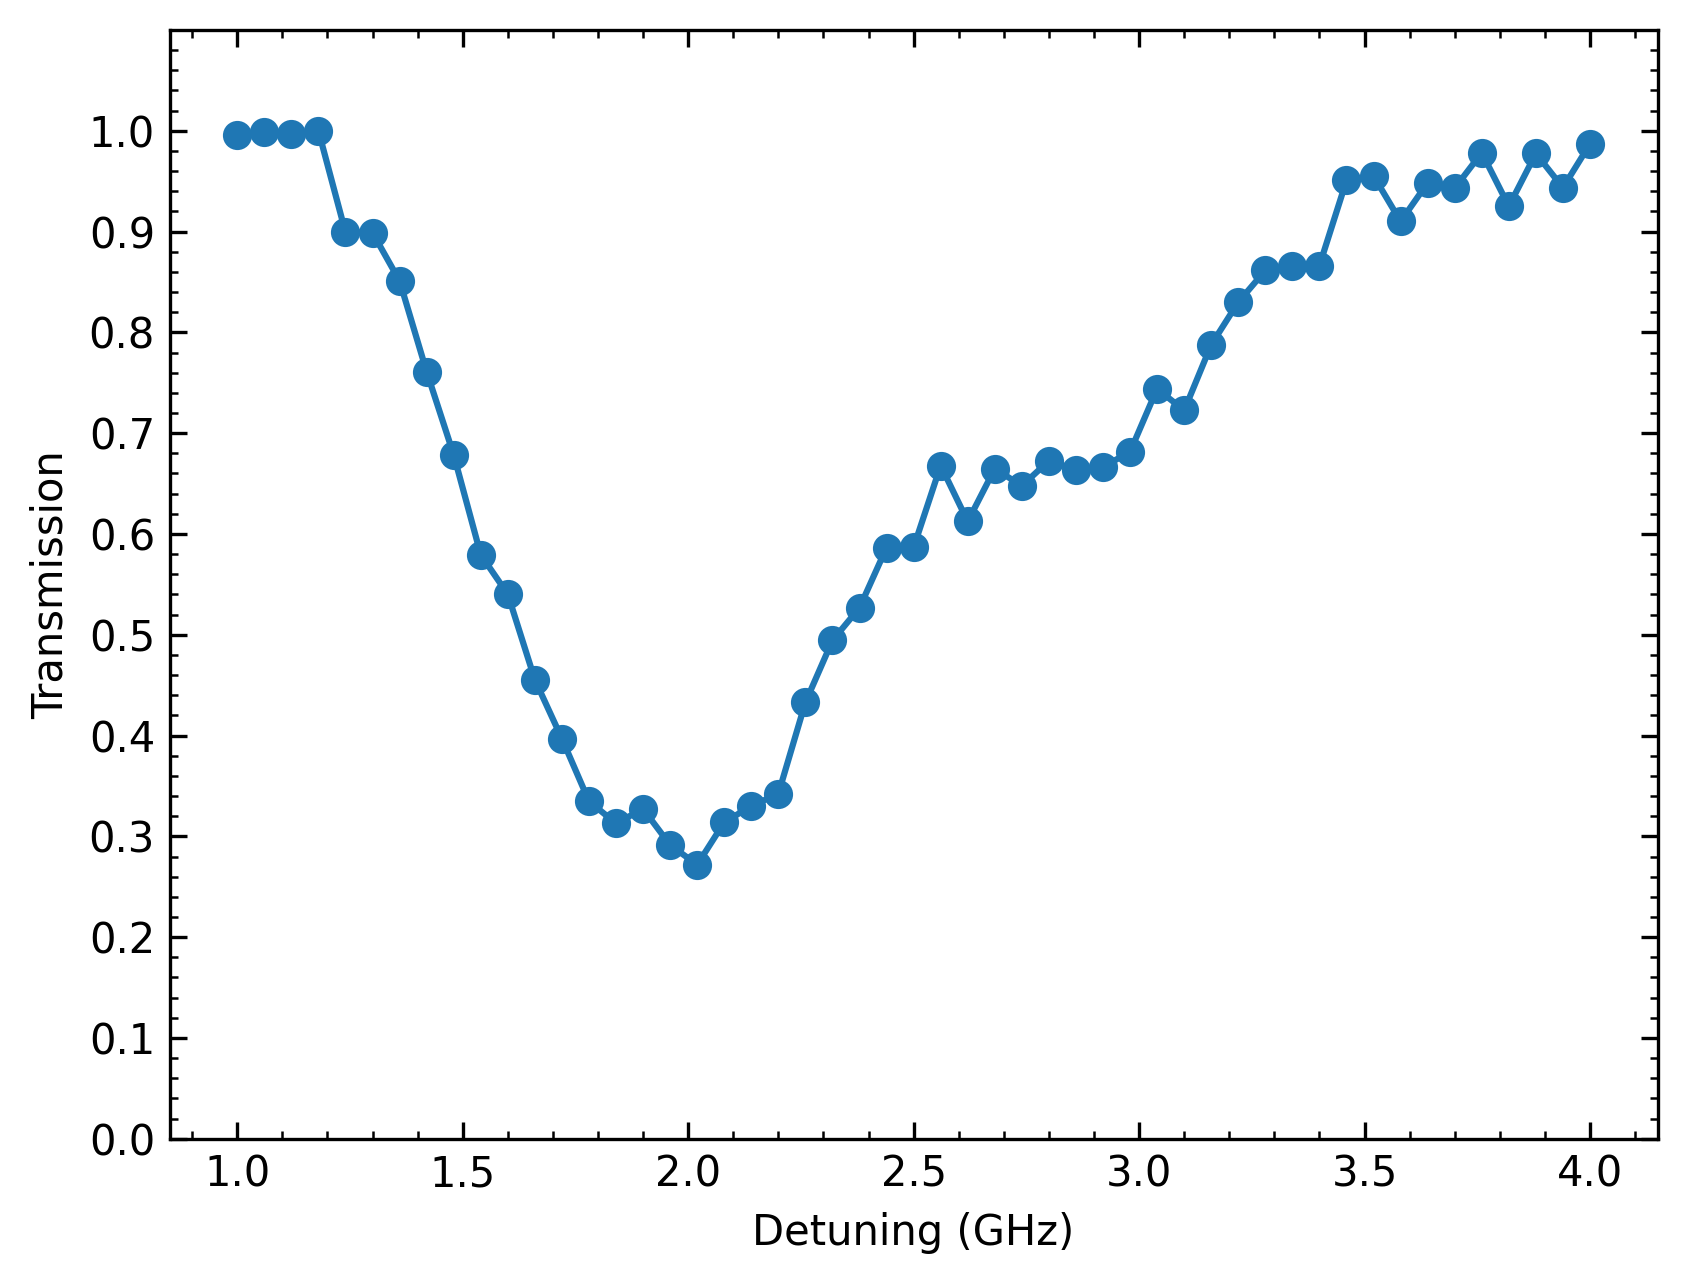
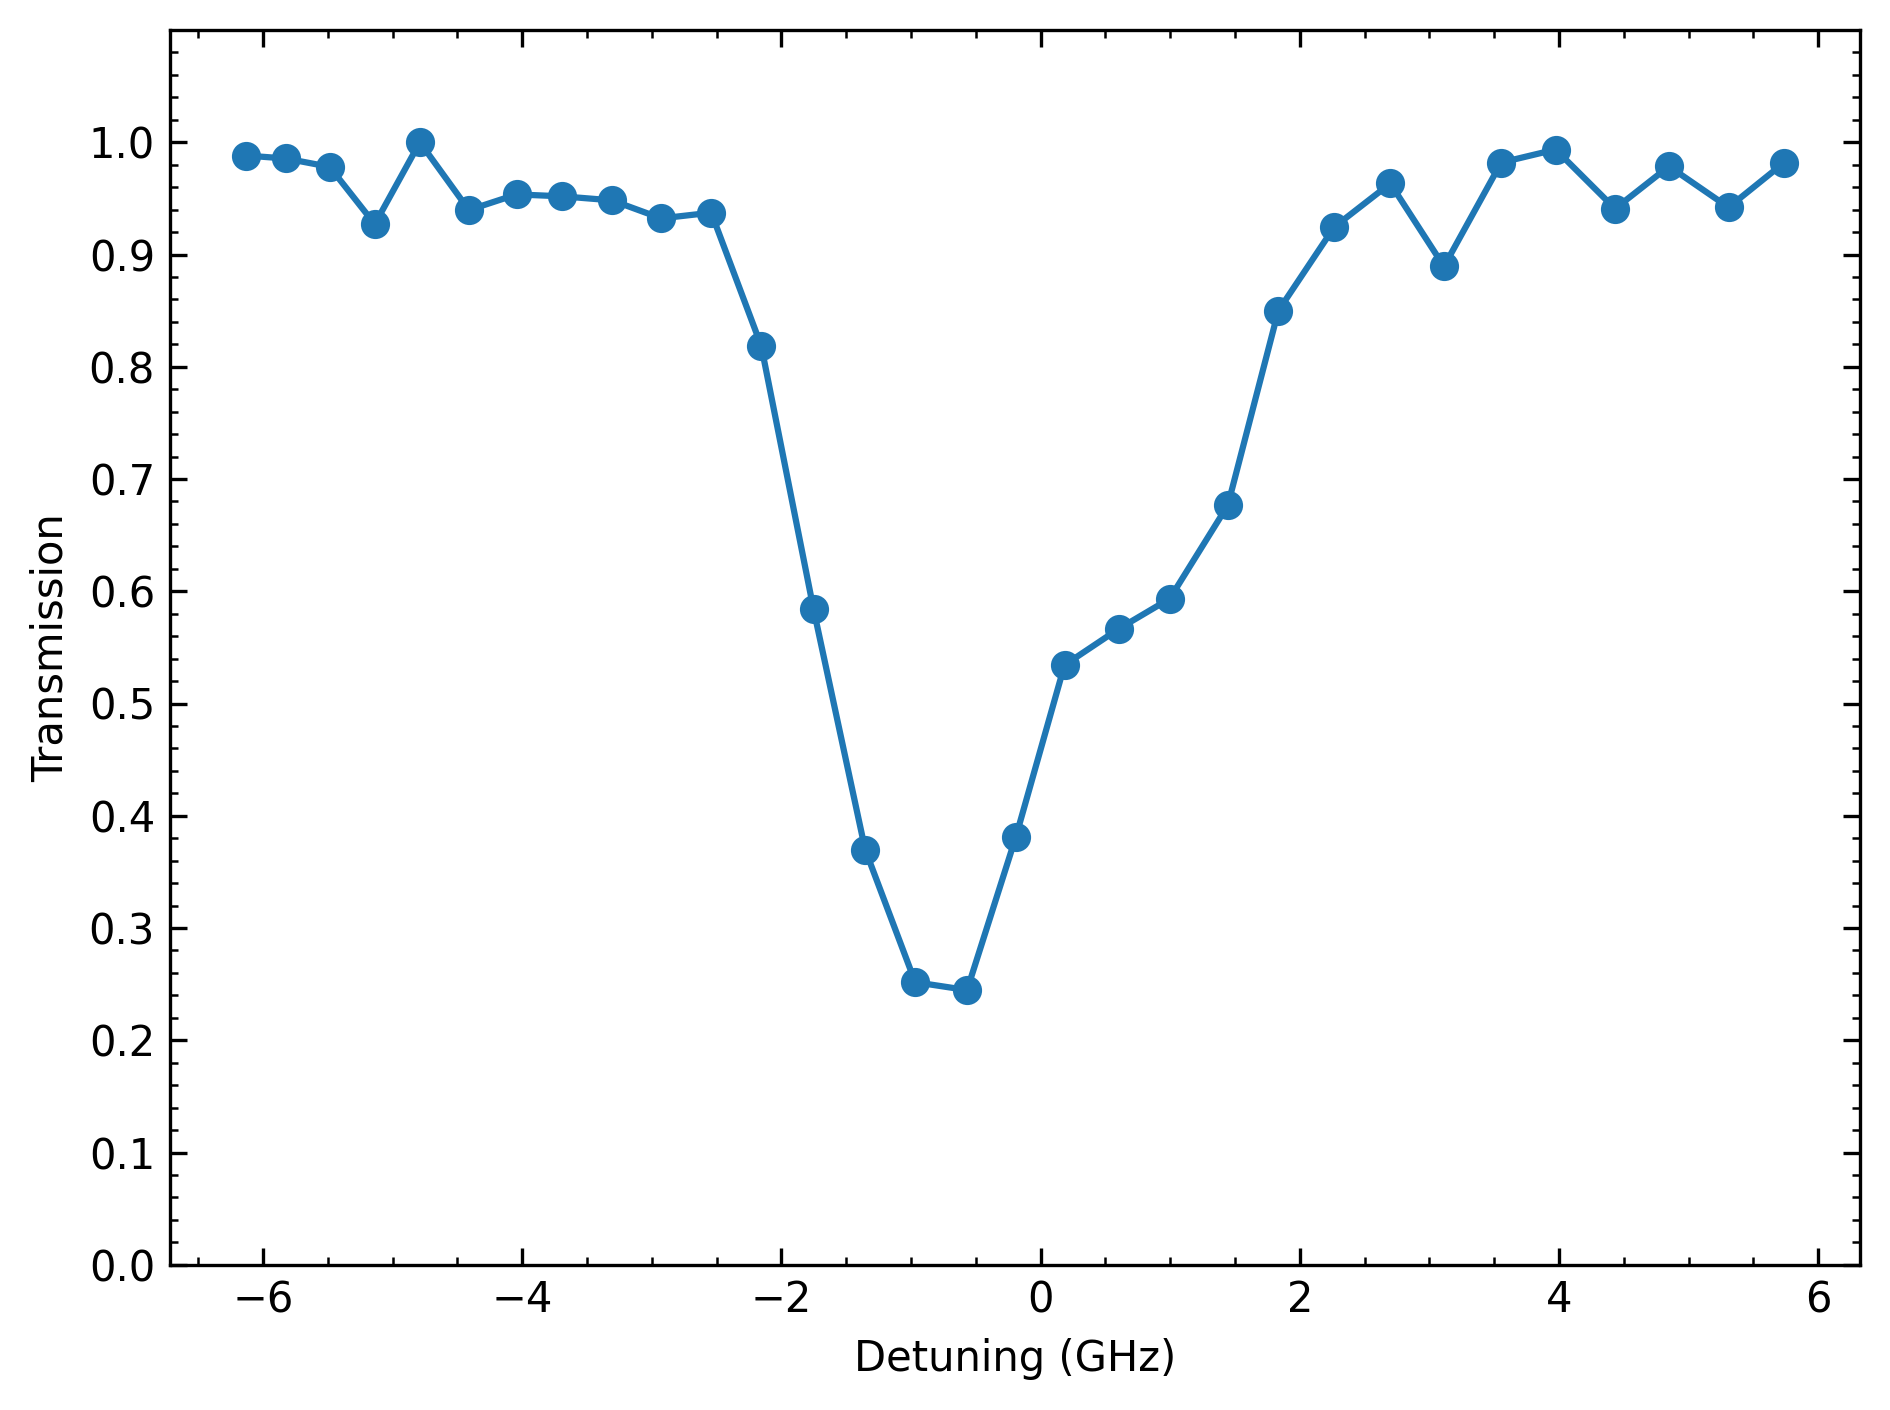
69

diff --git a/Photodiode_Data.py b/Photodiode_Data.py
@@ -87,7 +87,7 @@ print("Now running in:", os.getcwd())
 import glob
 
 folder = "SilverSpecFirst/"
-folder = "SilverSpecSecond/"
+#folder = "SilverSpecSecond/"
 
 base_path = "Photodiode_Data/" + folder
 
@@ -190,7 +190,7 @@ transmission_err = np.abs(transmission) * np.sqrt(
     (y2_err / y2)**2
 )
 
-plt.errorbar(xs1, transmission/np.max(transmission),
+plt.errorbar(xs, transmission/np.max(transmission),
              yerr=np.abs(transmission_err/np.max(transmission)),
              marker='o')
 
@@ -199,6 +199,8 @@ plt.ylabel("Transmission")
 
 plt.ylim(0,1.1)
 plt.yticks([0.0,0.1,0.2,0.3,0.4, 0.5, 0.6, 0.7 ,0.8,0.9, 1.0])
+
+plt.tight_layout()
 
 plt.savefig("Photodiode_Transmission", dpi=300, bbox_inches='tight')
 plt.show()
